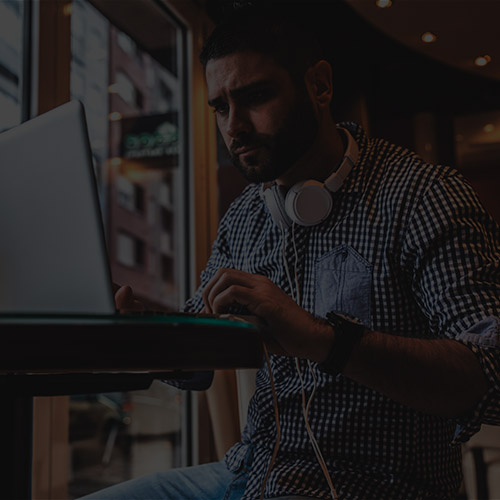
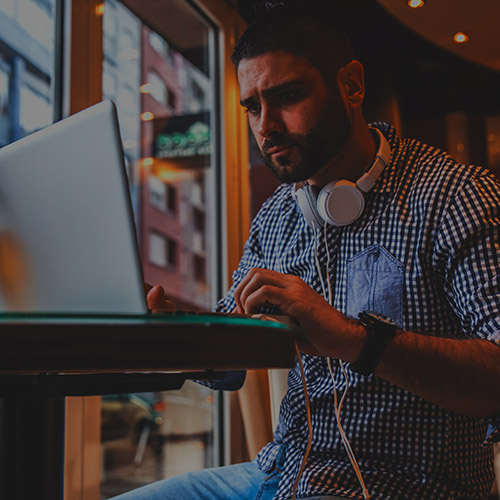
changed img to humans

diff --git a/index.html b/index.html
@@ -27,12 +27,12 @@
       <div class="row whitebg">
         <h1 class="center">Choose Your School of Interest</h1> 
         <div class="col-xs-12 col-md-6 col-lg-4 col-lg-offset-2 text-center">
-          <img src="img/nurse-icon2-small.png" class="img-responsive round-img">
+          <img src="img/nurses_new_sm_dark.jpg" class="img-responsive round-img">
           <h1>Allied Health</h1>
         </div>
         <div class="col-xs-12 col-md-6 col-lg-4 text-center">
           <!--<img src="img/tech-icon-small.png" class="img-responsive round-img">-->
-          <img src="img/tech-icon2.png" class="img-responsive round-img">
+          <img src="img/coder_in_cafe_sm.jpg" class="img-responsive round-img">
           <h1>Technology</h1>
         </div>
       </div>
